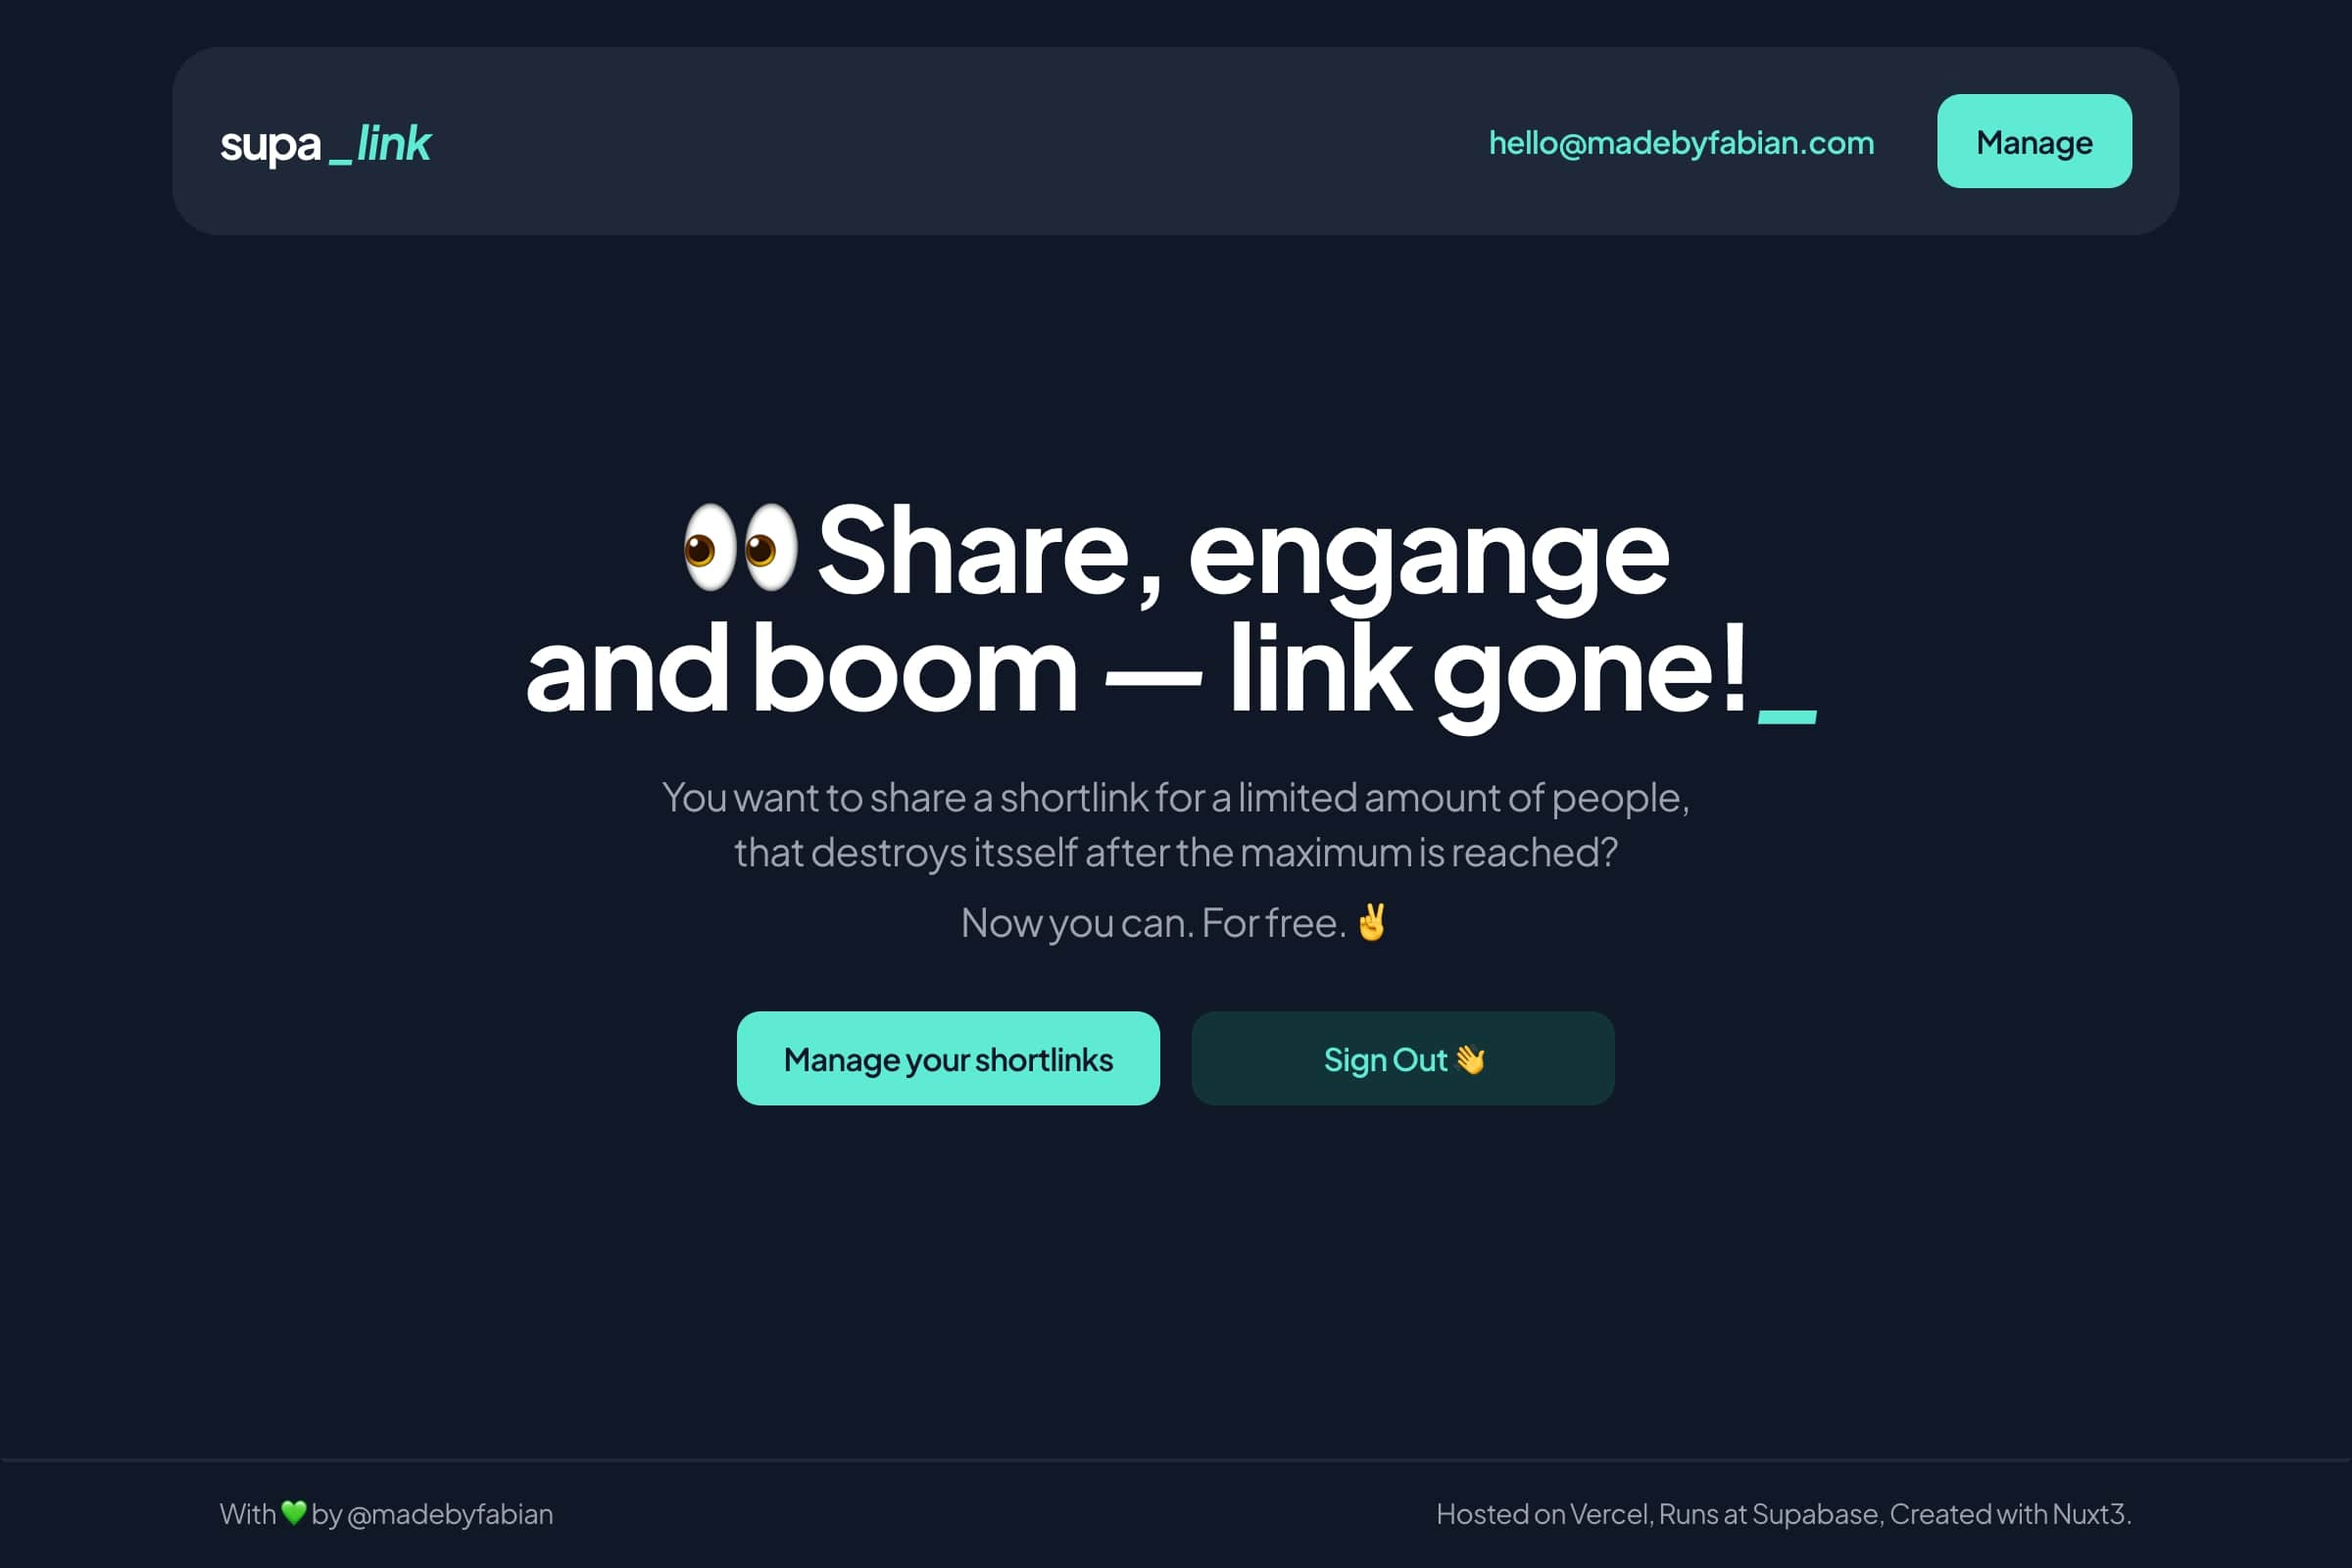
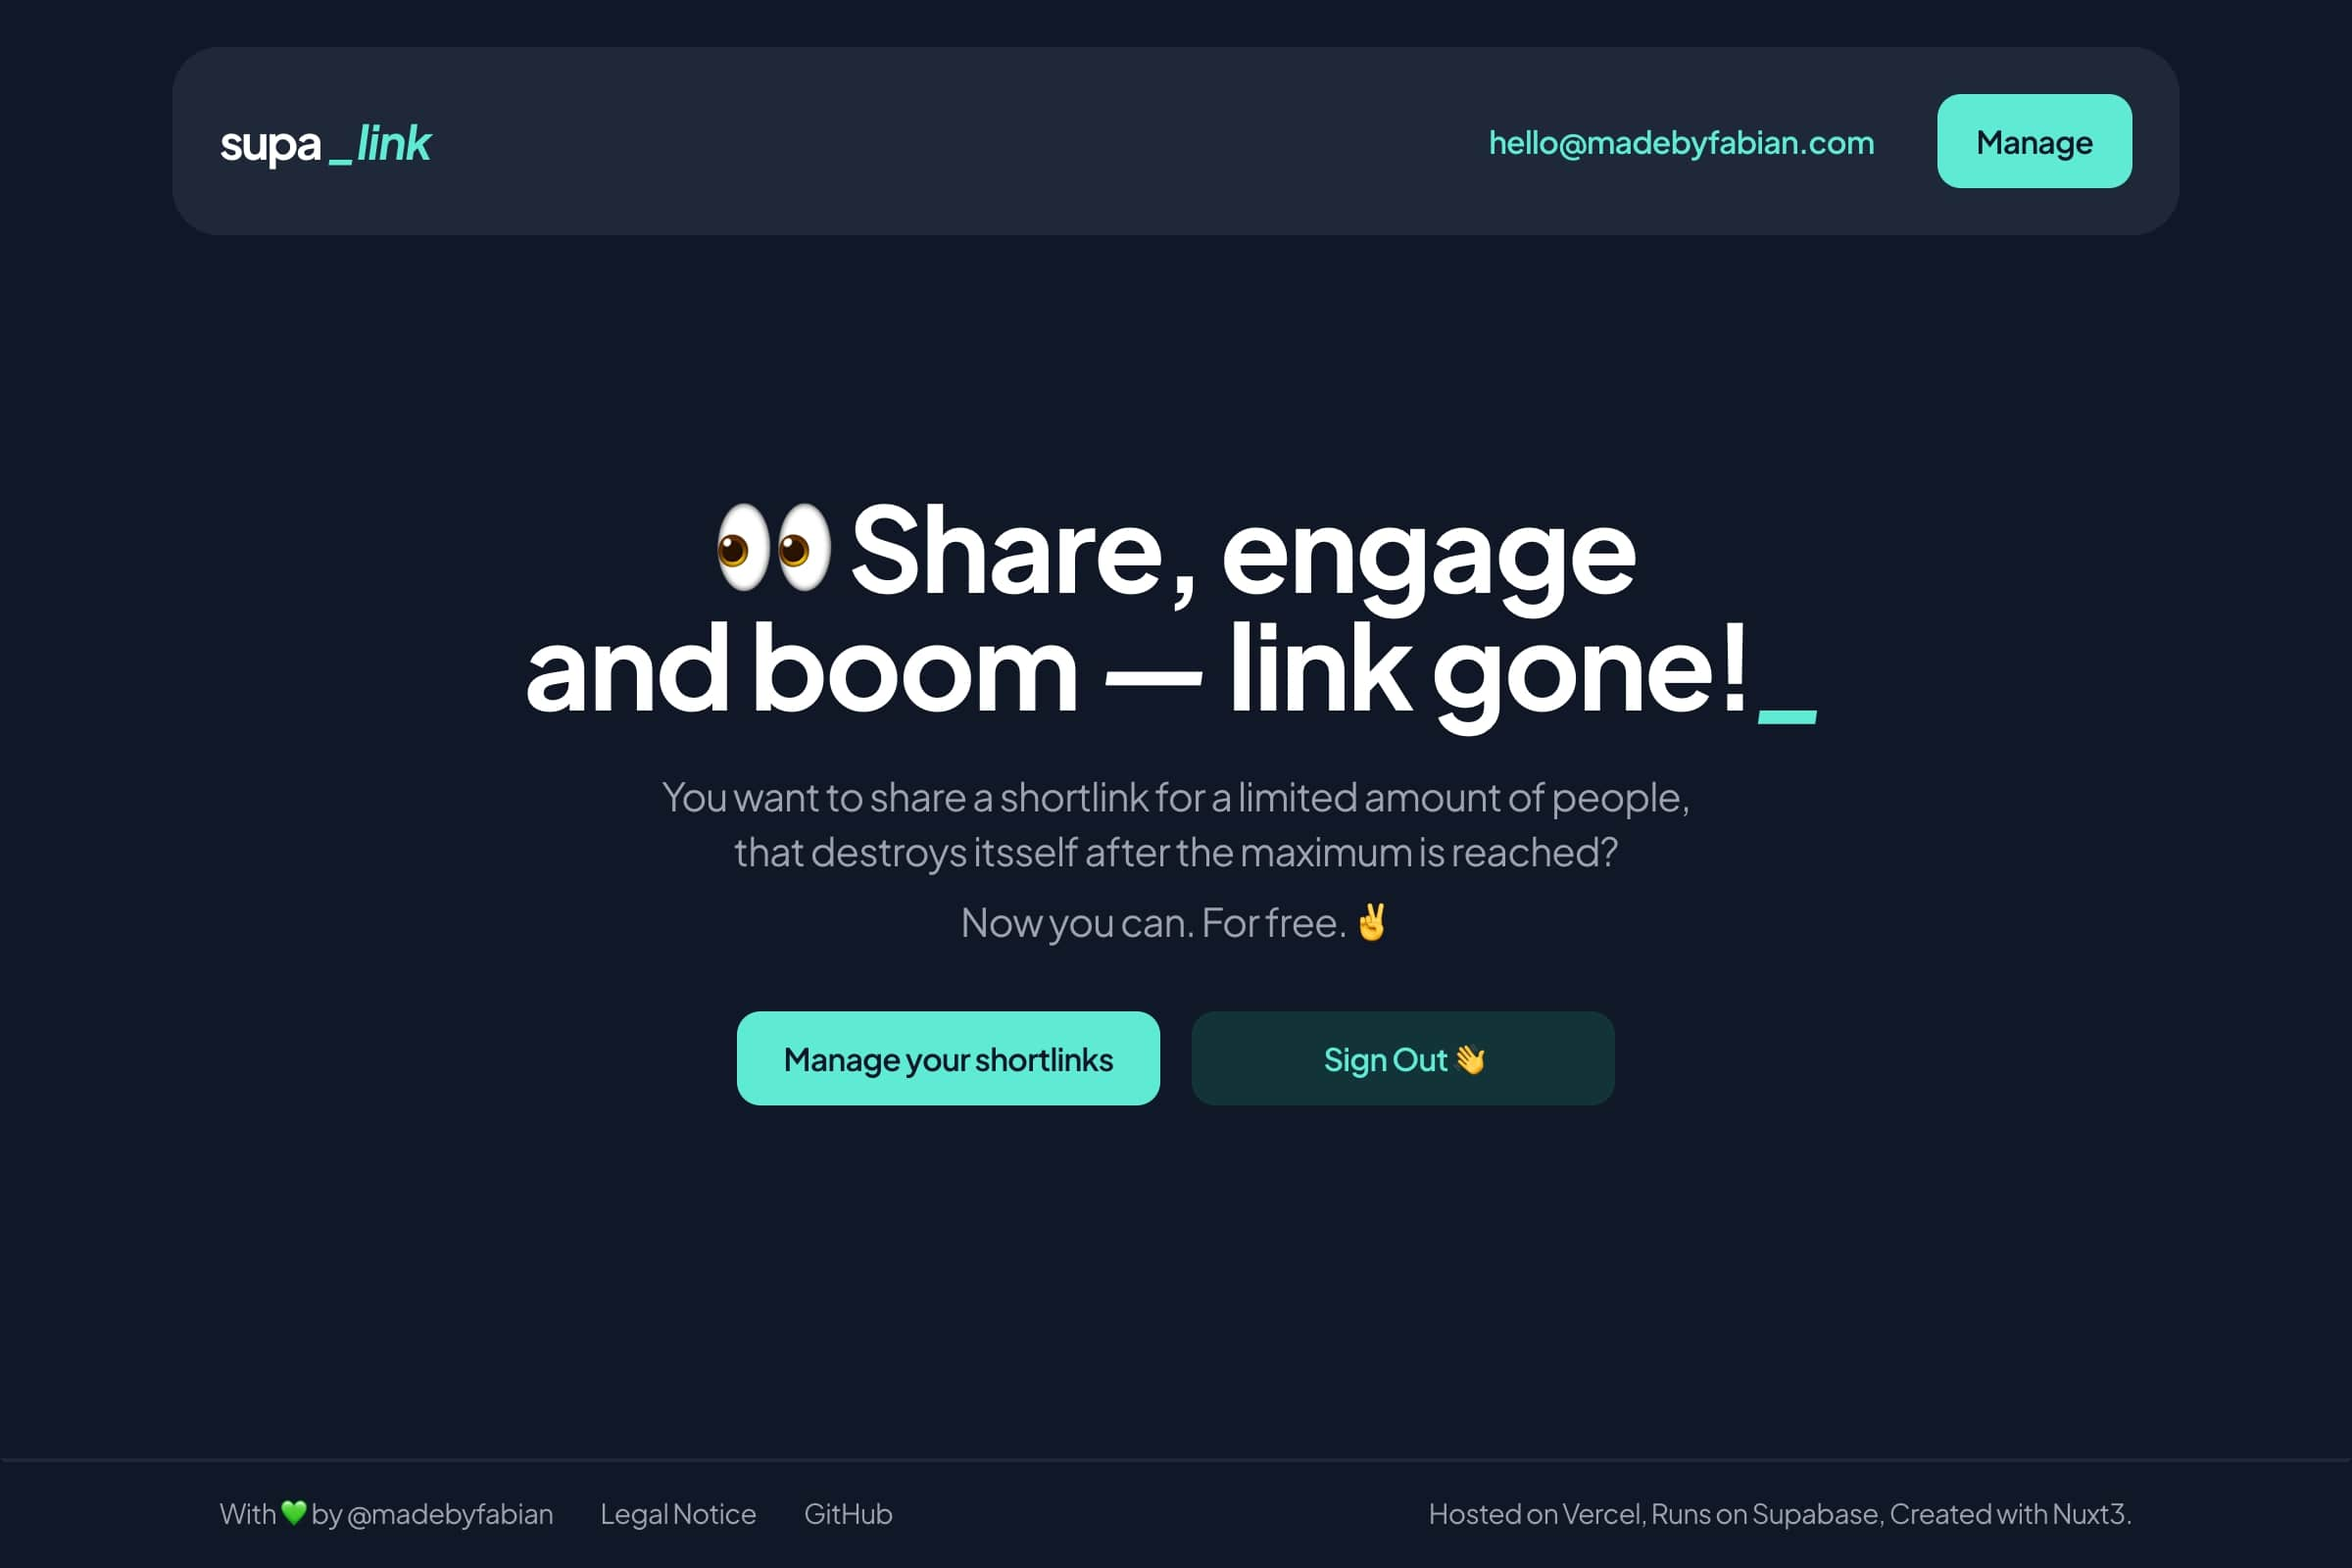
fix: wording and updated og_image

diff --git a/pages/index.vue b/pages/index.vue
@@ -1,7 +1,7 @@
 <template>
 	<div>
 		<Head>
-			<Title>supalink — 👀 Share, engange and boom — link gone!</Title>
+			<Title>supalink — 👀 Share, engage and boom — link gone!</Title>
 			<Meta
 				name="description"
 				content="Share a shortlink for a limited amount of people, that destroys itsself after the maximum is reached. For free." />
@@ -9,7 +9,7 @@
 		</Head>
 
 		<section class="flex flex-col justify-center items-center text-center mt-8 tablet:mt-20 mx-auto">
-			<h1 class="h1-large">👀 Share, engange<br />and boom <i>—</i> link gone!</h1>
+			<h1 class="h1-large">👀 Share, engage<br />and boom <i>—</i> link gone!</h1>
 			<p class="mt-6 text-xl text-gray-400">
 				You want to share a shortlink for a limited amount of people,<br class="hidden tablet:block" />that destroys
 				itsself after the maximum is reached?

diff --git a/README.md b/README.md
@@ -1,6 +1,6 @@
 ![Cover Art](public/images/og_image.jpg?raw=true 'Cover Art')
 
-# supalink.cc – 👀 Share, engange and boom — link gone!
+# supalink.cc – 👀 Share, engage and boom — link gone!
 
 You want to share a shortlink for a limited amount of people,
 that destroys itsself after the maximum is reached?
